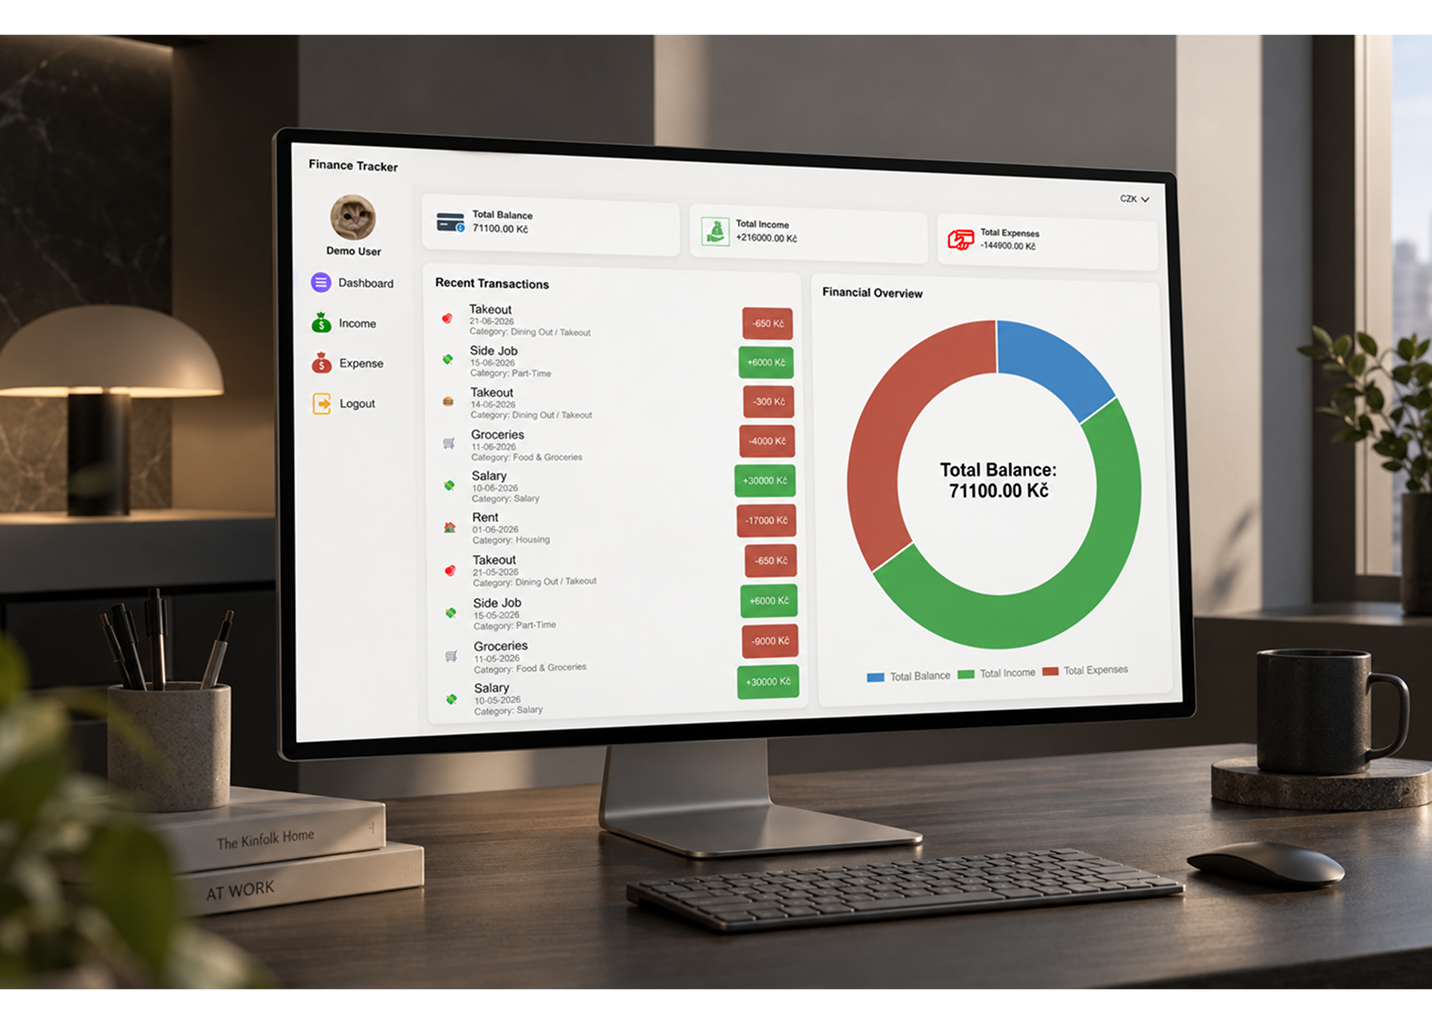
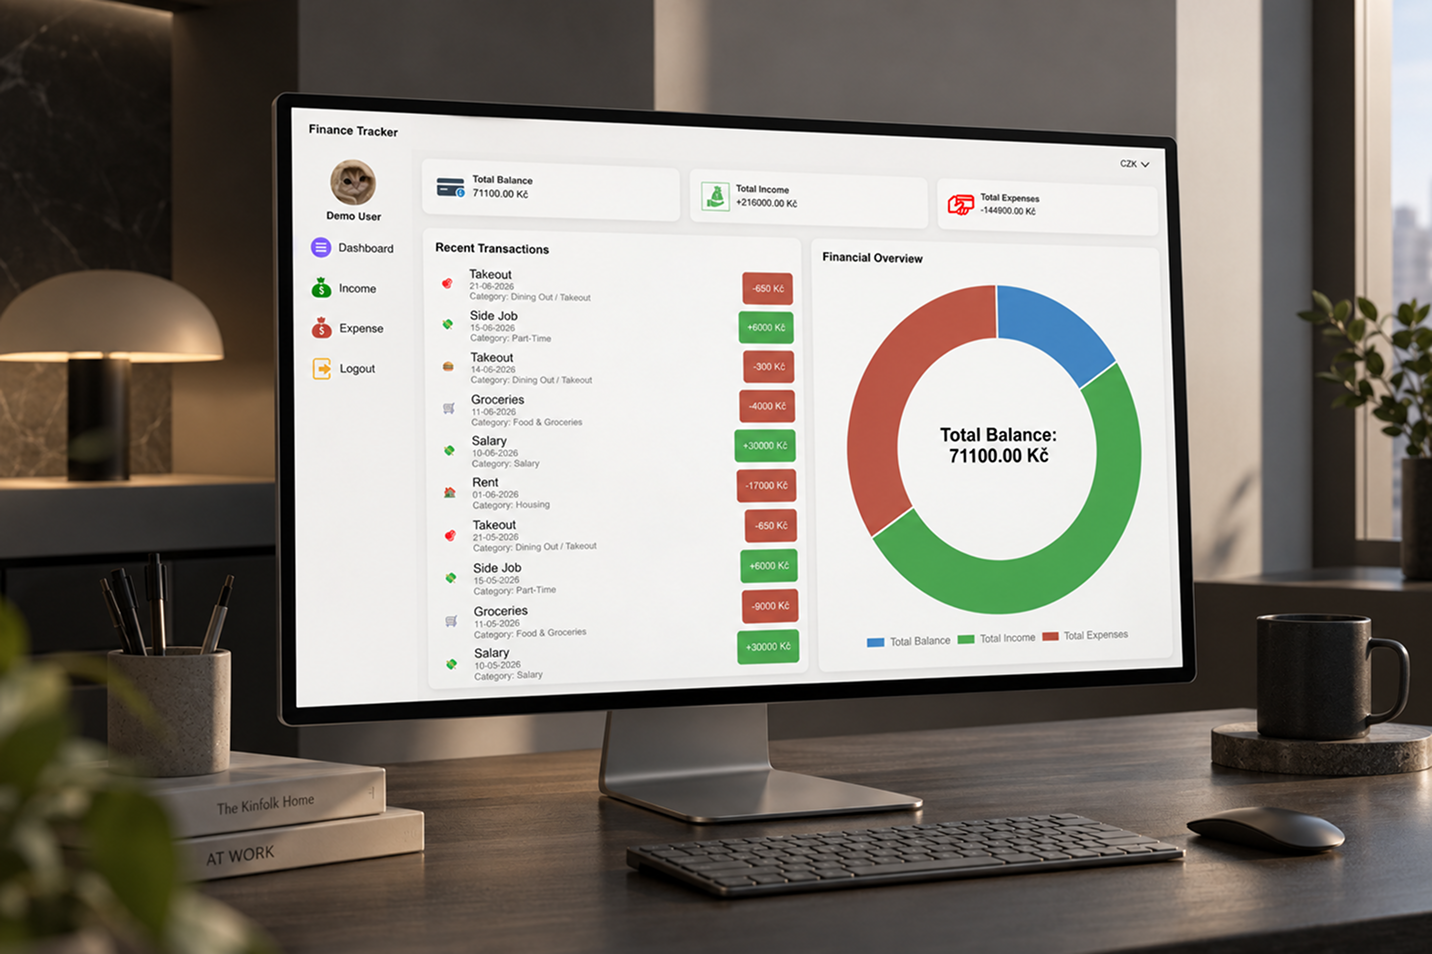
feat: add finance tracker project page

diff --git a/src/pages/Projects/components/ProjectLayout.tsx b/src/pages/Projects/components/ProjectLayout.tsx
@@ -1,27 +1,33 @@
 import blackArrow from "../../../assets/icons/blackArrow.png"
+import whiteArrow from "../../../assets/icons/whiteArrow.png"
 import Button from "./Button";
 
 
 type ProjectLayoutProps = {
+  title: string
   overview: string
   type: string
   features: string
   stack: string
   lesson: string
   images: string[]
+  theme: 'light' | 'dark'
 }
 
-function ProjectLayout({ overview, type, features, stack, lesson, images }: ProjectLayoutProps) {
-  return (
-    <div className="h-dvh bg-[#FFFBF4] grid grid-cols-1 xl:grid-cols-2 px-10 md:px-15 xl:p-0">
+function ProjectLayout({title, overview, type, features, stack, lesson, images, theme }: ProjectLayoutProps) {
 
-      <div className=" bg-[#FFFBF4] contents xl:flex xl:flex-col xl:px-20 2xl:px-30">
+  const isDark = theme === 'dark';
+
+  return (
+    <div className={` grid grid-cols-1 xl:grid-cols-2 px-10 md:px-15 xl:p-0 xl:h-dvh ${isDark ? 'bg-[#171512] text-[#FFFBF4]': 'bg-[#FFFBF4] text-[#171512]'}`}>
+
+      <div className={`contents xl:flex xl:flex-col xl:px-20 2xl:px-30 ${isDark ? 'bg-[#171512]': 'bg-[#FFFBF4]'}`}>
         <div className="order-1 flex flex-col gap-6 md:gap-10 py-8">
           <div className="mb-15">
-            <img src={blackArrow} alt="" />
+            <img src={isDark ? whiteArrow : blackArrow} alt="" />
           </div>
 
-          <h1 className="text-5xl lg:text-7xl font-[Judson] text-center">Gym Tracker</h1>
+          <h1 className="text-5xl lg:text-7xl font-[Judson] text-center">{title}</h1>
 
           <div className="mt-5">
             <p className="text-xl lg:text-2xl font-[Judson] py-4">Project Overview</p>
@@ -60,12 +66,12 @@ function ProjectLayout({ overview, type, features, stack, lesson, images }: Proj
           </div>
         </div>
 
-        <div className="order-3 flex justify-between py-6 bg-[#FFFBF4] xl:mt-8">
+        <div className="order-3 flex justify-between py-6  xl:mt-8">
           <div className="flex gap-2 md:gap-5">
-            <Button label="Live" />
-            <Button label="Github" />
+            <Button label="Live"  theme={theme}/>
+            <Button label="Github" theme={theme}/>
           </div>
-          <Button label="Next Project" />
+          <Button label="Next Project" theme={theme}/>
         </div>
 
       </div>
@@ -73,7 +79,7 @@ function ProjectLayout({ overview, type, features, stack, lesson, images }: Proj
       <div className="order-2 xl:overflow-y-scroll ">
         {images.map((image) => {
           return (
-            <img src={image} alt="" key={image}/>
+            <img src={image} alt="" key={image} />
           )
         })}
       </div>

diff --git a/src/pages/Projects/FinanceTracker.tsx b/src/pages/Projects/FinanceTracker.tsx
@@ -1,0 +1,24 @@
+import ProjectLayout from "./components/ProjectLayout";
+import dashboard from "../../assets/images/finance-tracker/dashboard.png"
+import expenses from "../../assets/images/finance-tracker/expenses.png"
+import seeAllExpenses from "../../assets/images/finance-tracker/see-all-expenses.png"
+
+function FinanceTracker() {
+  return (
+    <ProjectLayout
+    title="Finance Tracker"
+      overview="
+      Finance Tracker is a full-stack personal finance web app for managing income and expenses, filtering transactions, visualizing financial data, and handling multiple currencies.
+      I built the frontend and backend from scratch using JavaScript, Node.js, Express, and MongoDB, including JWT authentication, protected user data, validation, and REST API endpoints."
+      type="Full-stack web application"
+      features="Authentication, transactions, filters, charts, currency conversion"
+      stack="JavaScript, Node.js, Express, MongoDB, Chart.js"
+      lesson="The biggest lesson was learning how to connect authentication, backend logic, and database access so each user could securely work with only their own data."
+      images={[dashboard, expenses, seeAllExpenses]}
+      theme="dark"
+    />
+  )
+}
+
+
+export default FinanceTracker

diff --git a/src/pages/Projects/GymTracker.tsx b/src/pages/Projects/GymTracker.tsx
@@ -6,6 +6,7 @@ import ProjectLayout from "./components/ProjectLayout"
 function GymTracker() {
   return (
     <ProjectLayout
+      title="Gym Tracker"
       overview="
       Gym Tracker is a workout tracking web app for managing training plans, logging workouts, and tracking progress.
       I built the application from scratch with React, TypeScript, Supabase, and Chart.js, focusing on a clean responsive interface and practical workout tracking."
@@ -14,6 +15,7 @@ function GymTracker() {
       stack="React, TypeScript, Supabase, PostgreSQL, Chart.js"
       lesson="The biggest lesson was learning how to design features around real data flows — from the database, through application logic, all the way to the UI."
       images={[dashboard, workoutHistory, exercises]}
+      theme="light"
     />
   )
 }

diff --git a/src/pages/Projects/components/Button.tsx b/src/pages/Projects/components/Button.tsx
@@ -1,12 +1,22 @@
 type ButtonProps = {
   label: string
+  theme: 'dark' | 'light'
 }
 
 
-function Button({ label }: ButtonProps) {
+function Button({ label, theme }: ButtonProps) {
+  const buttonStyle = label === 'Live'
+    ? "border-[#A84A3A] text-[#A84A3A]"
+    : theme === "dark"
+      ? "border-white text-white"
+      : "border-[#292725] text-[#292725]"
   return (
-    <button className={label === 'Live' ? "text-xs xs:text-sm sm:text-base border py-1 px-3 xs:px-6 md:px-8 border-[#7F342A] text-[#7F342A]" : "text-xs xs:text-sm sm:text-base border py-1 px-3 xs:px-6 md:px-8 border-[#292725] text-[#292725]"}>
+    <button
+      className={`text-xs xs:text-sm sm:text-base border py-1 px-3 xs:px-6 md:px-8 ${buttonStyle}`}
+    >
+
       {label}
+
     </button>
   )
 }

diff --git a/src/App.tsx b/src/App.tsx
@@ -2,12 +2,14 @@ import './App.css'
 import { Routes, Route } from 'react-router-dom'
 import Homepage from './pages/Homepage/Homepage'
 import GymTracker from './pages/Projects/GymTracker'
+import FinanceTracker from './pages/Projects/FinanceTracker'
 
 function App() {
   return (
     <Routes>
       <Route path='/' element={<Homepage />}/>
       <Route path="/gym-tracker" element={<GymTracker />} />
+      <Route path="/finance-tracker" element={<FinanceTracker />} />
     </Routes>
   )
 }
